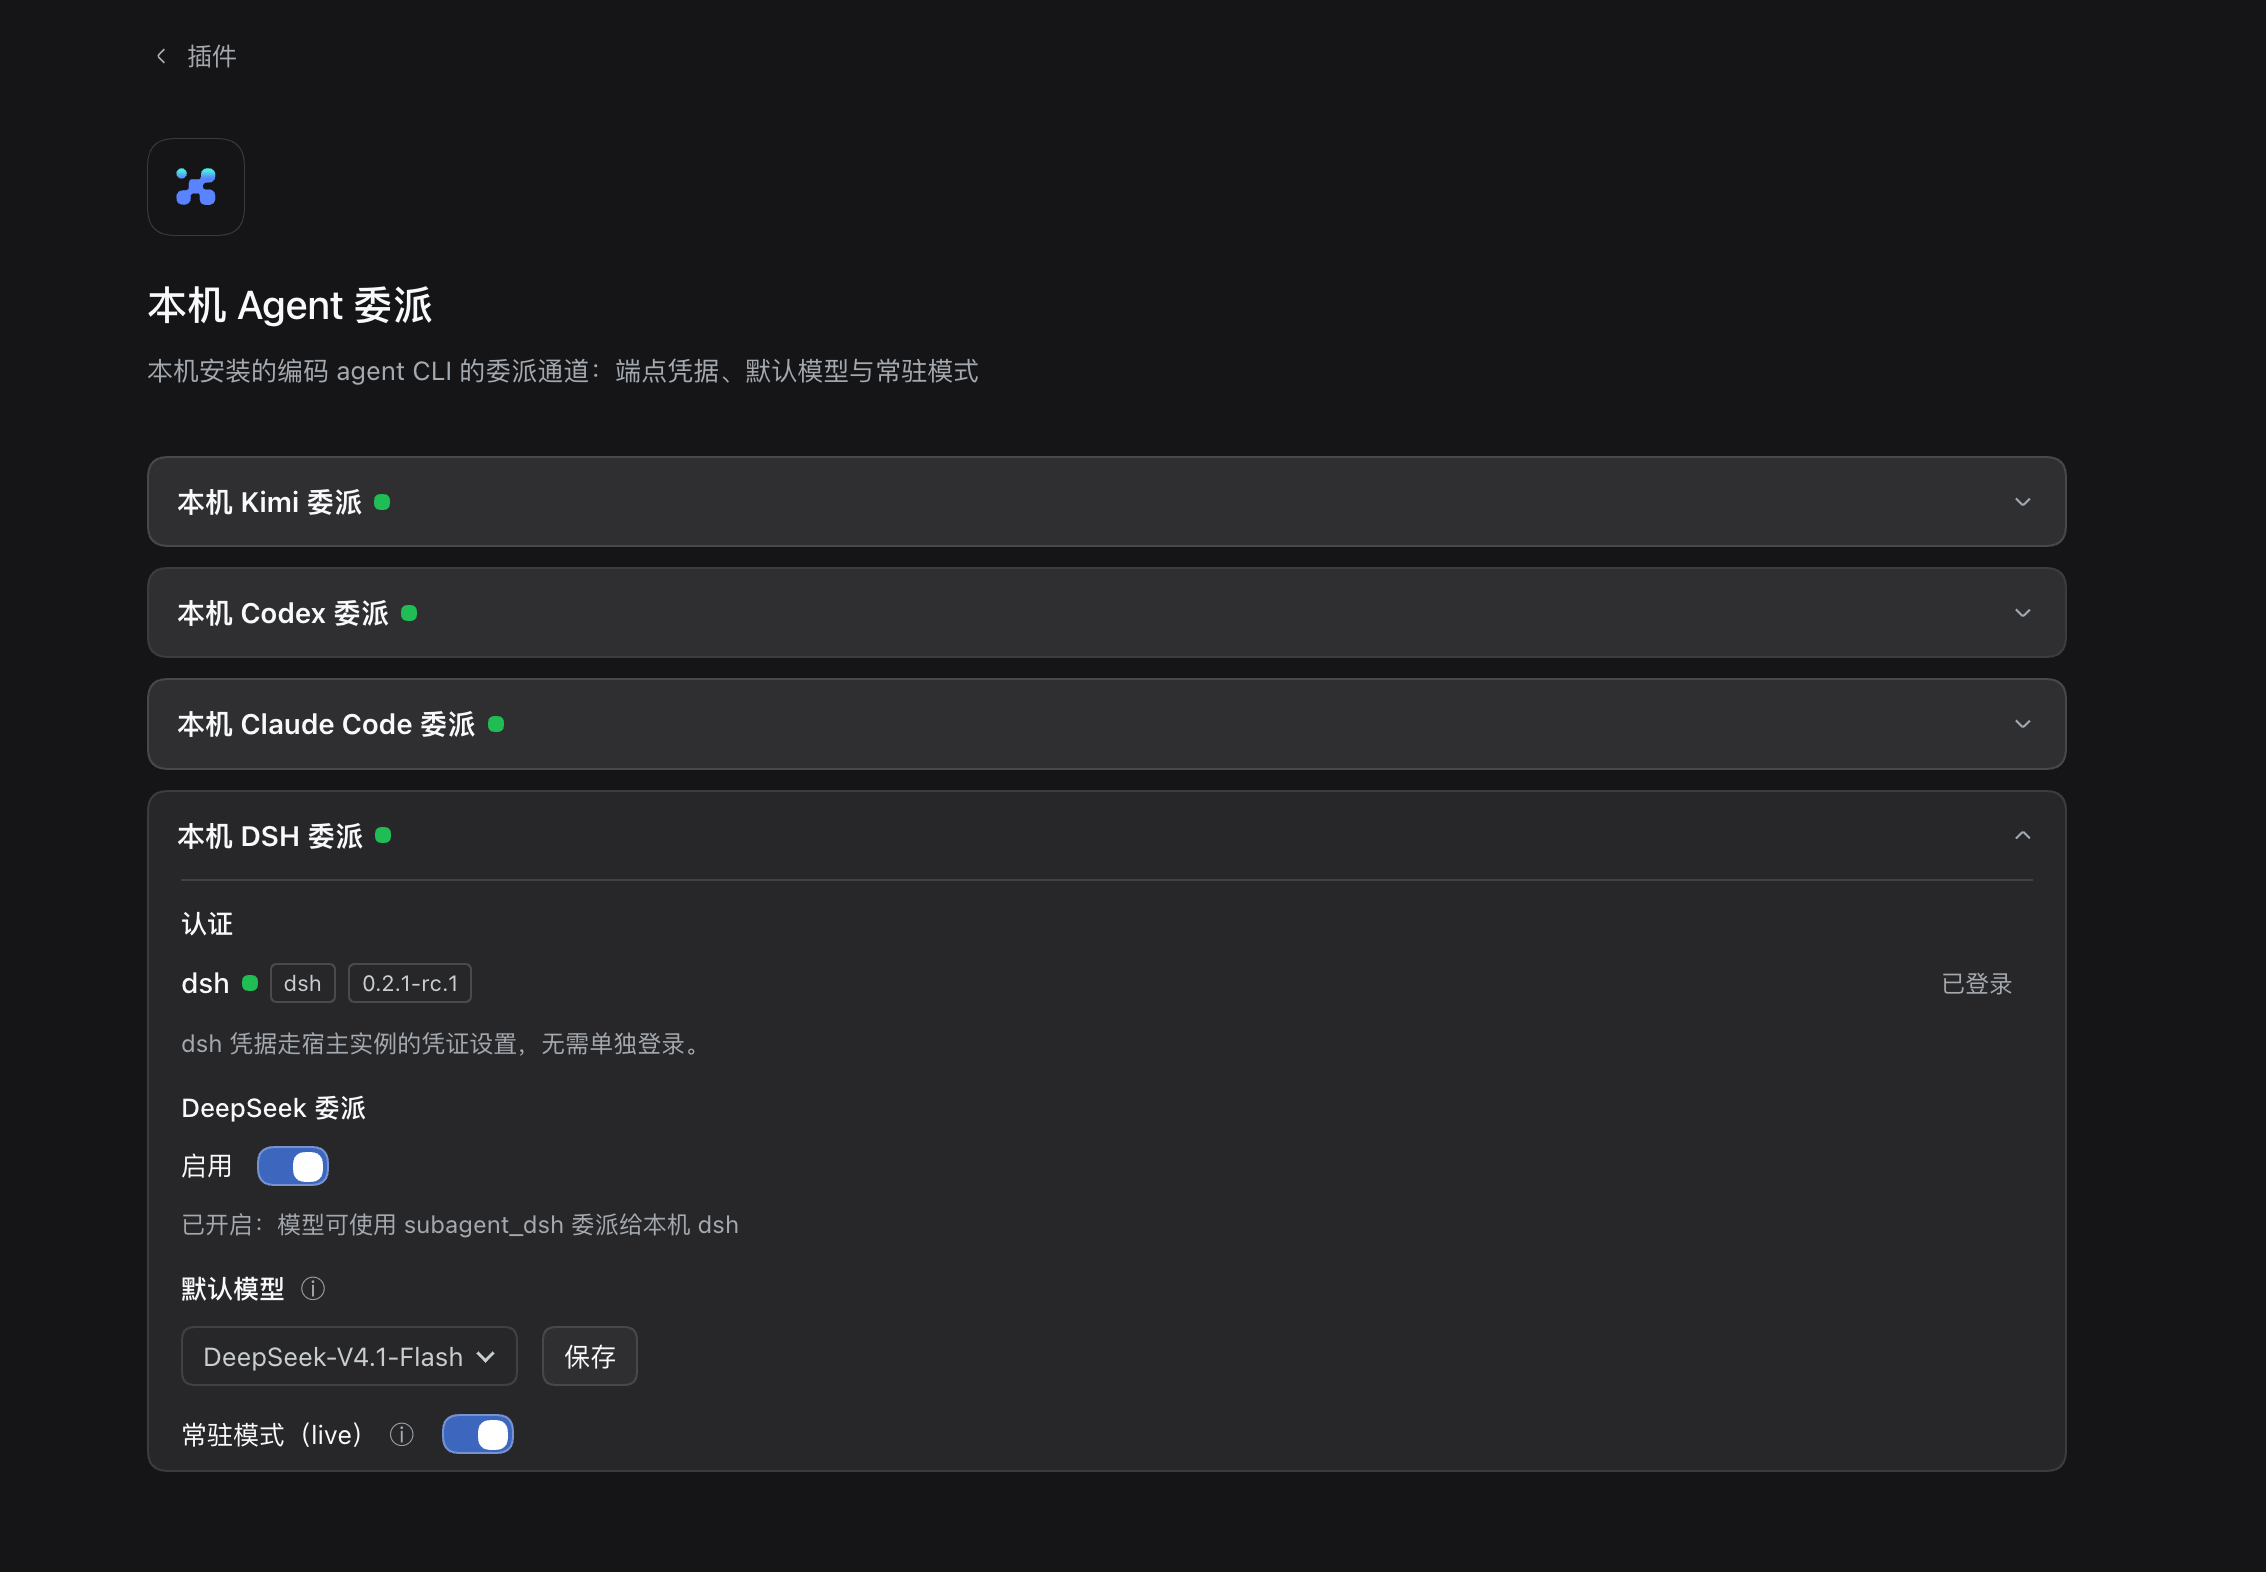
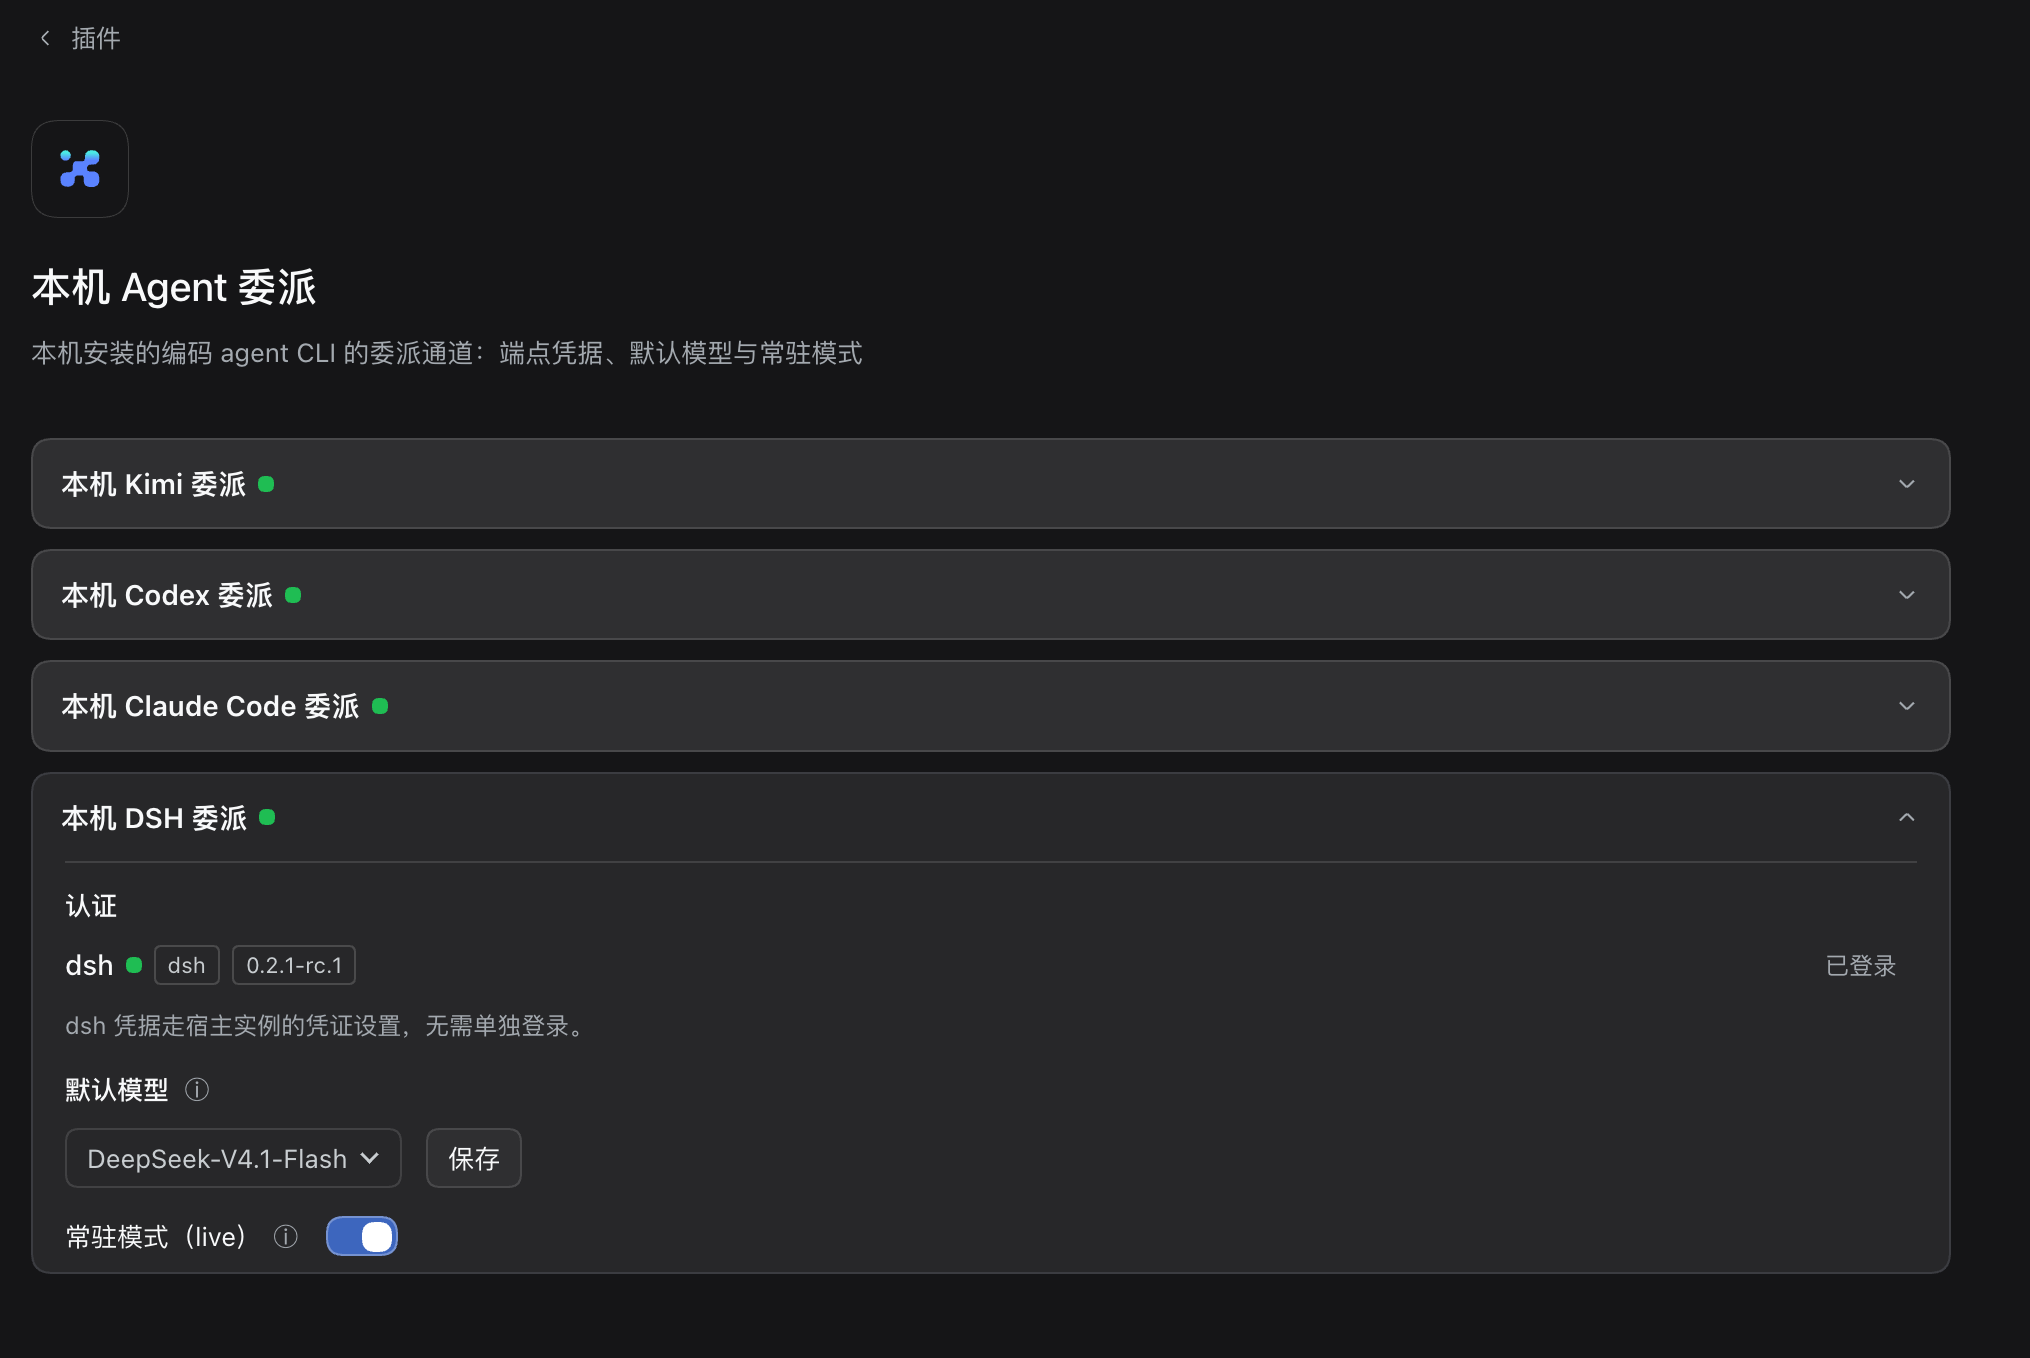
sync from dsh-plugins @ f0068dd

diff --git a/CHANGELOG.md b/CHANGELOG.md
@@ -1,5 +1,9 @@
 # 变更记录
 
+## 0.1.1（2026-10-27）
+
+- **插件卡片的介绍重写**：一句话说清这个套件能为你做什么，在插件页一行放得下。
+
 ## 0.1.0（2026-10-26）
 
 首个公开发布：「基础体验」套件——日常用 DSH 时最顺手的十二个插件，一张卡、一次装好：
